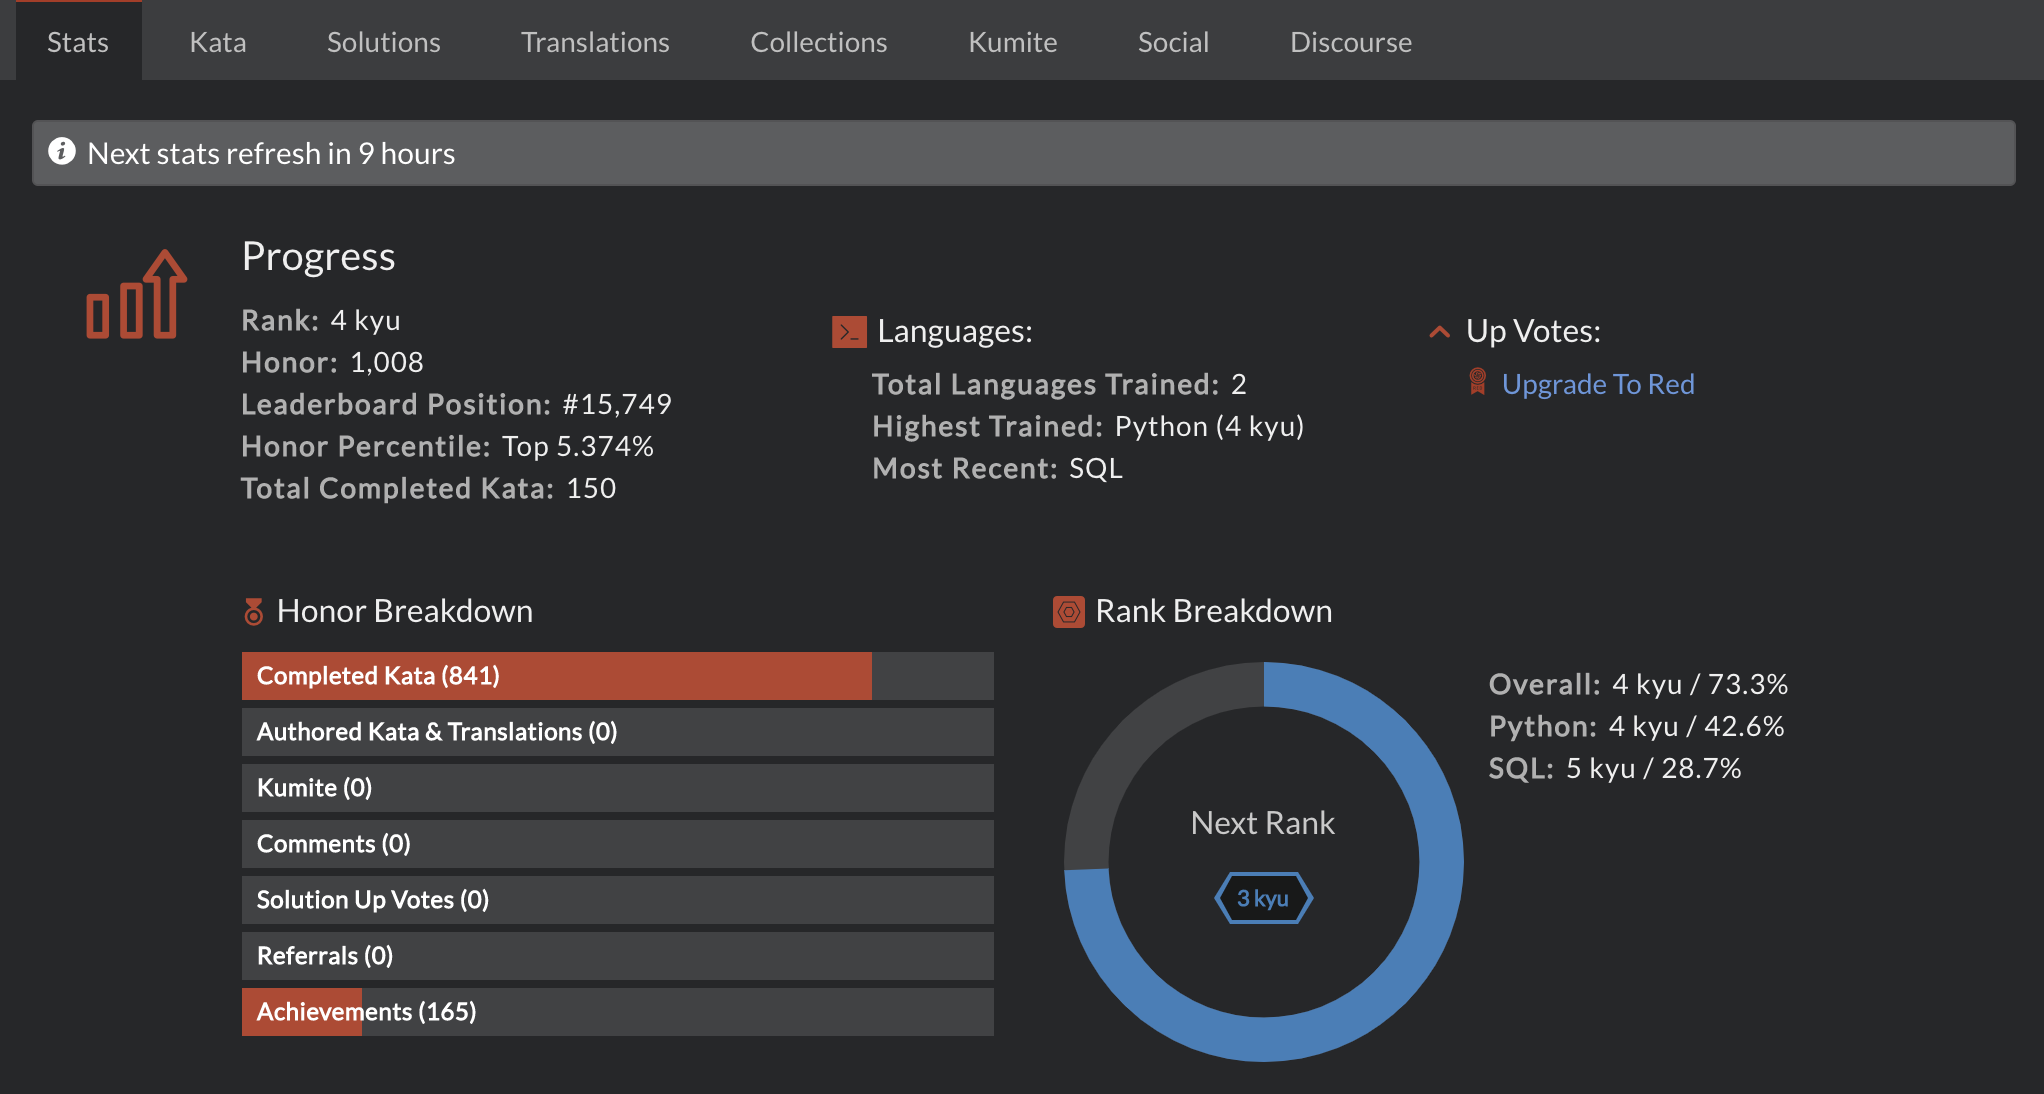
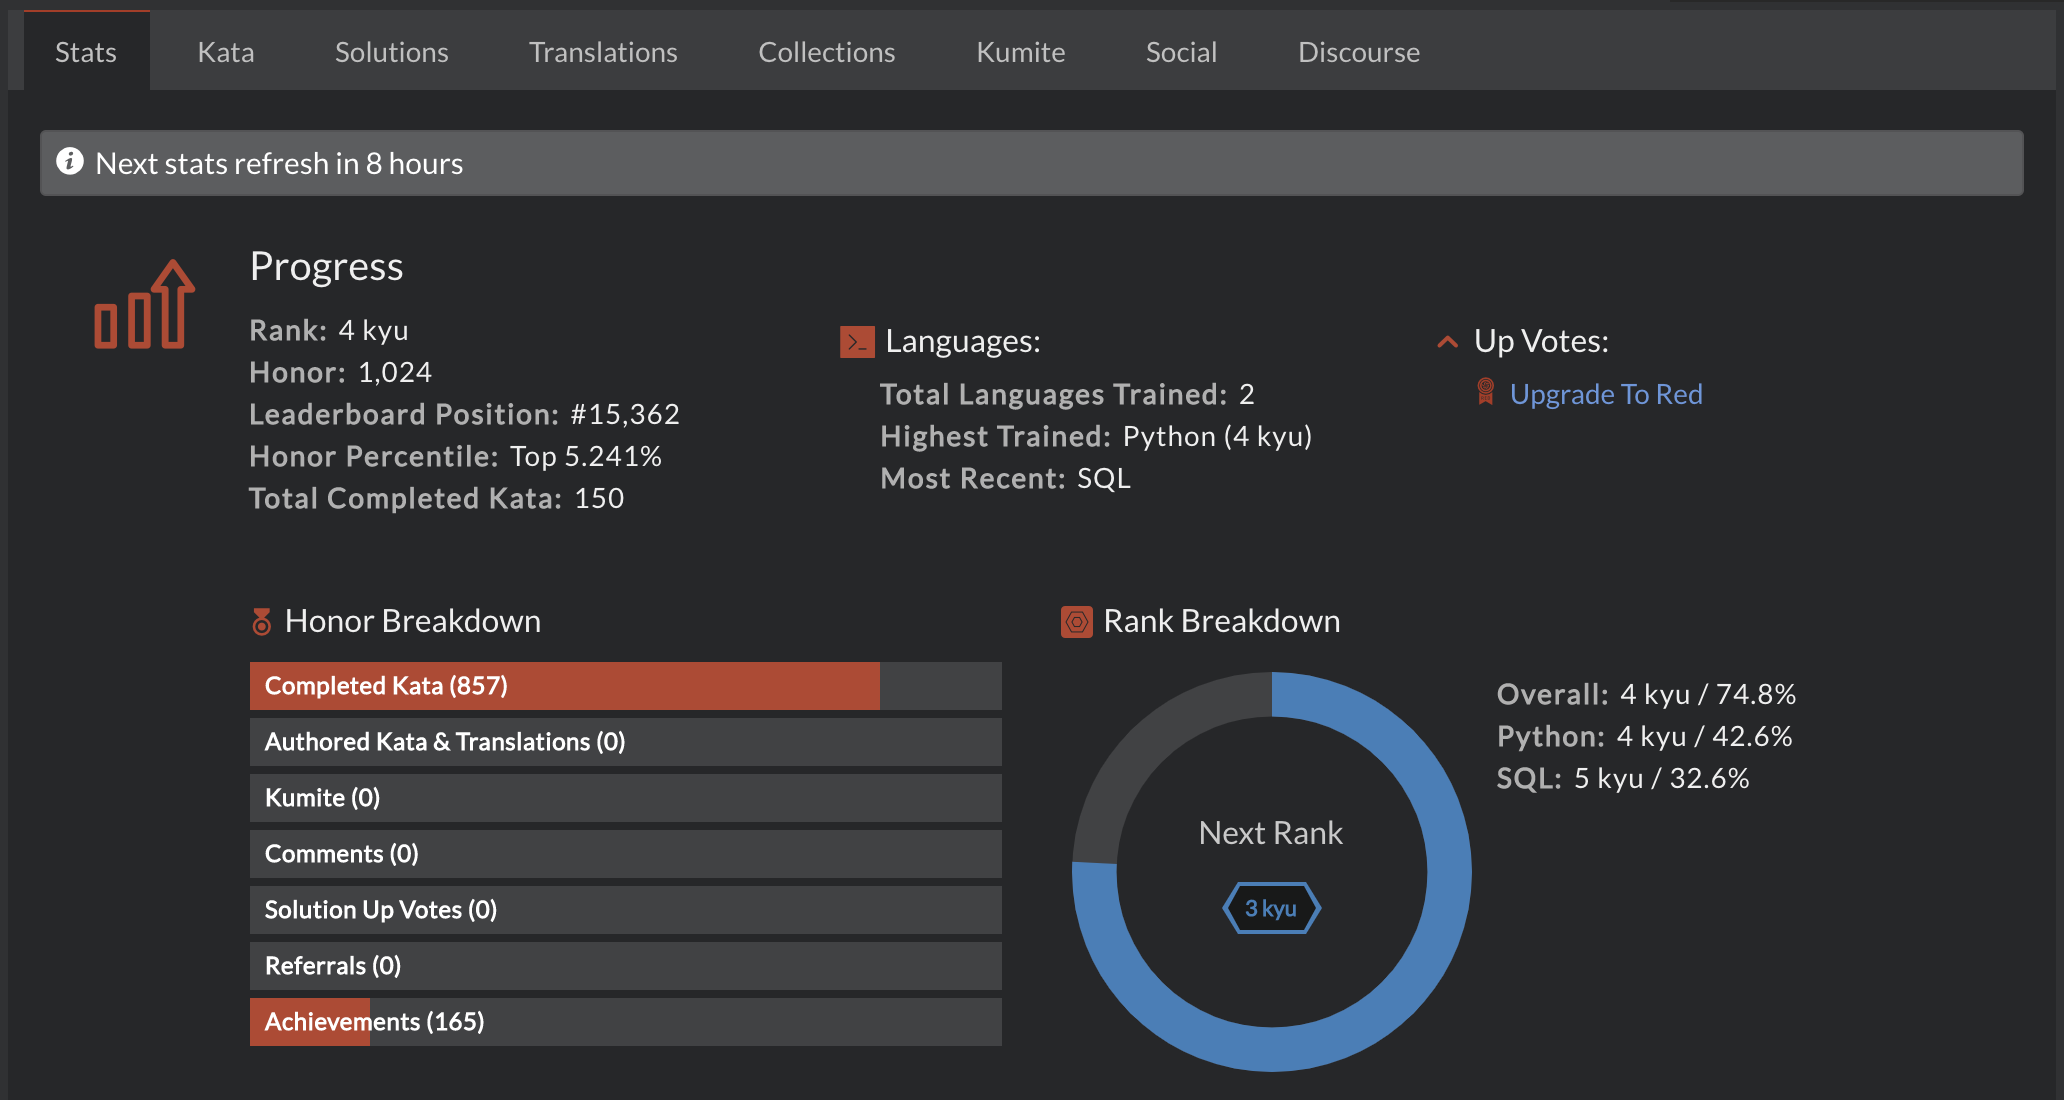
README file updates

diff --git a/README.md b/README.md
@@ -1,33 +1,51 @@
-# CODEWARS
+# **CODEWARS** by Léo
 **Leonardo Cavalcante Araújo**
 
 *Last update: April 16th 2021 at 15h*
 
+## Badge
+My most recent badge:
+
+<a href="https://www.codewars.com/users/leo-cavalcante/badges/large"><div style="text-align:center"><img src="https://www.codewars.com/users/leo-cavalcante/badges/large" alt="Profile Stats" align="center"/></div></a>
+
+*PS.: you may click on the photo to consult my most recent Badge.*
+
 ## Content
+- [Badge](#badge)
 - [Summary](#summary)
 - [Statistics](#statistics)
+- [Profile Badges](#profile-badges)
 - [Other Informations](#other-informations)
-- [Links](#links)
+- [Other Links](#other-links)
 
 <br>
 
 ## Summary
+Codewars is an online platform for practicing coding through gamified exercises.
+
+I joined the platform recently to develop and improve my skills in coding.
+
+**Currently, I use the platform to prepare myself for Technical interviews for Data Analyst roles in Paris.**
+
+Here's a summary of my **CODEWARS** profile:
+
 <div style="text-align:center"><img src="images/Summary.png" alt="Profile Summary" align="center"/></div>
 
 <br>
 
 ## Statistics
+Here's some more detail about my main achievements in this platform:
 
-<div style="text-align:center"><img src="images/Stats.png" alt="Profile Summary" align="center"/></div>
+<div style="text-align:center"><img src="images/Stats.png" alt="Profile Stats" align="center"/></div>
 
 <br>
 
 ## Other Informations
-Languages trained so far:
+Languages trained at **CODEWARS** so far:
 - Python
 - SQL
 
-Nevertheless, I have also learned how to code in C and a bit in Java and R.
+Nevertheless, I have also learned how to code in **C** (in engineering school), notions in **Java** (from elective course), **EXCEL-VBA** (online courses and on-job practice) and **R** (from online courses).
 
 <br>
 
